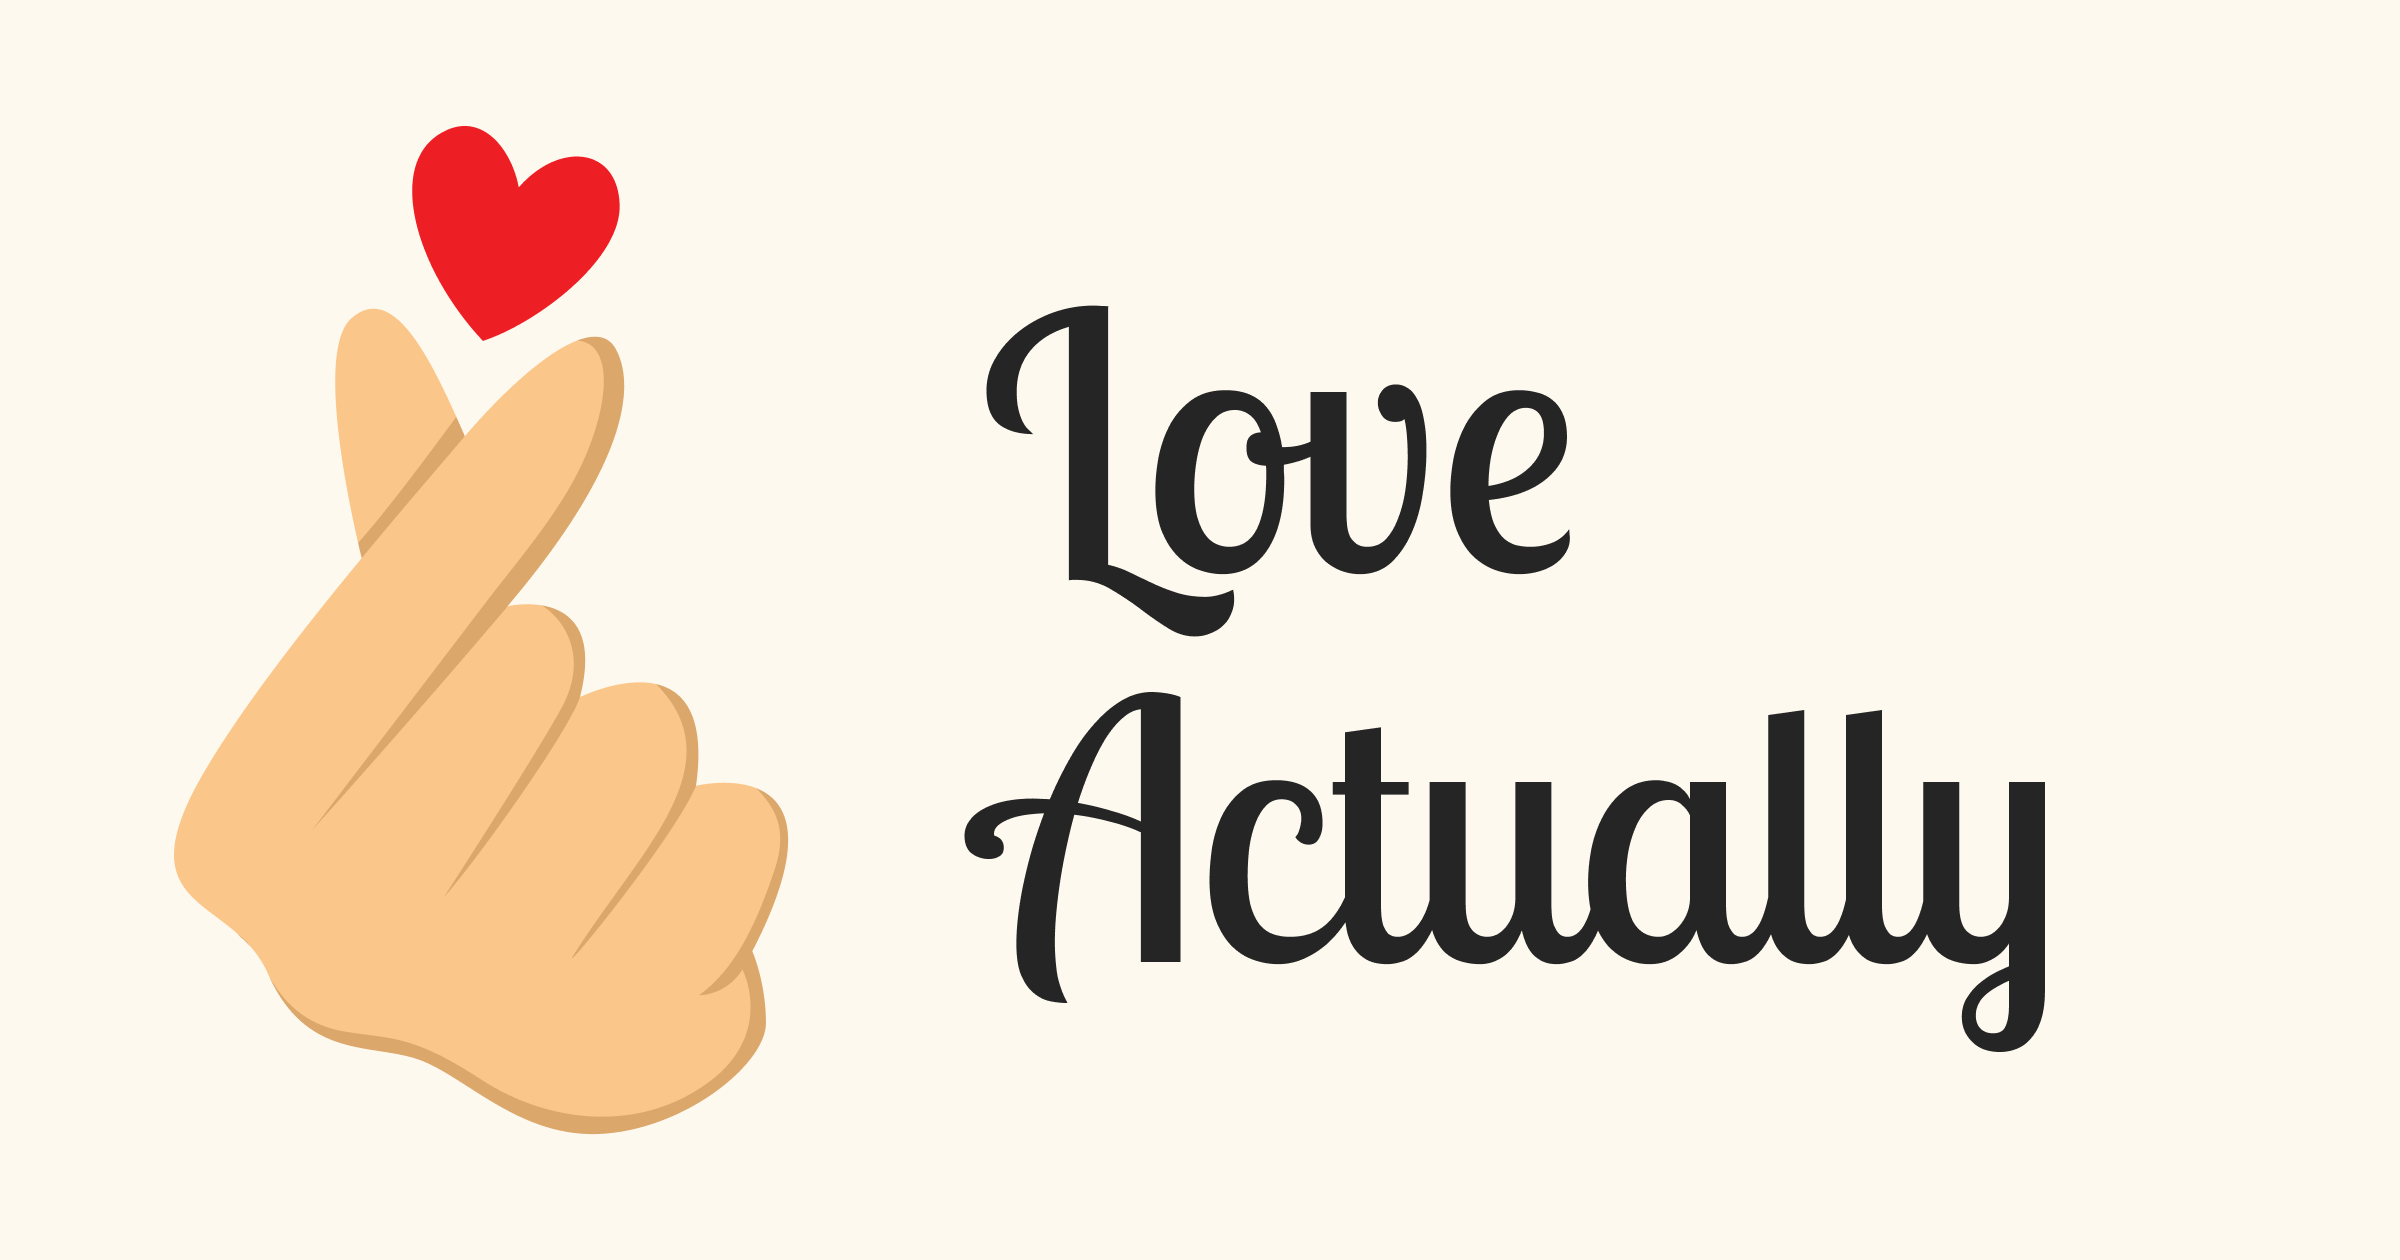
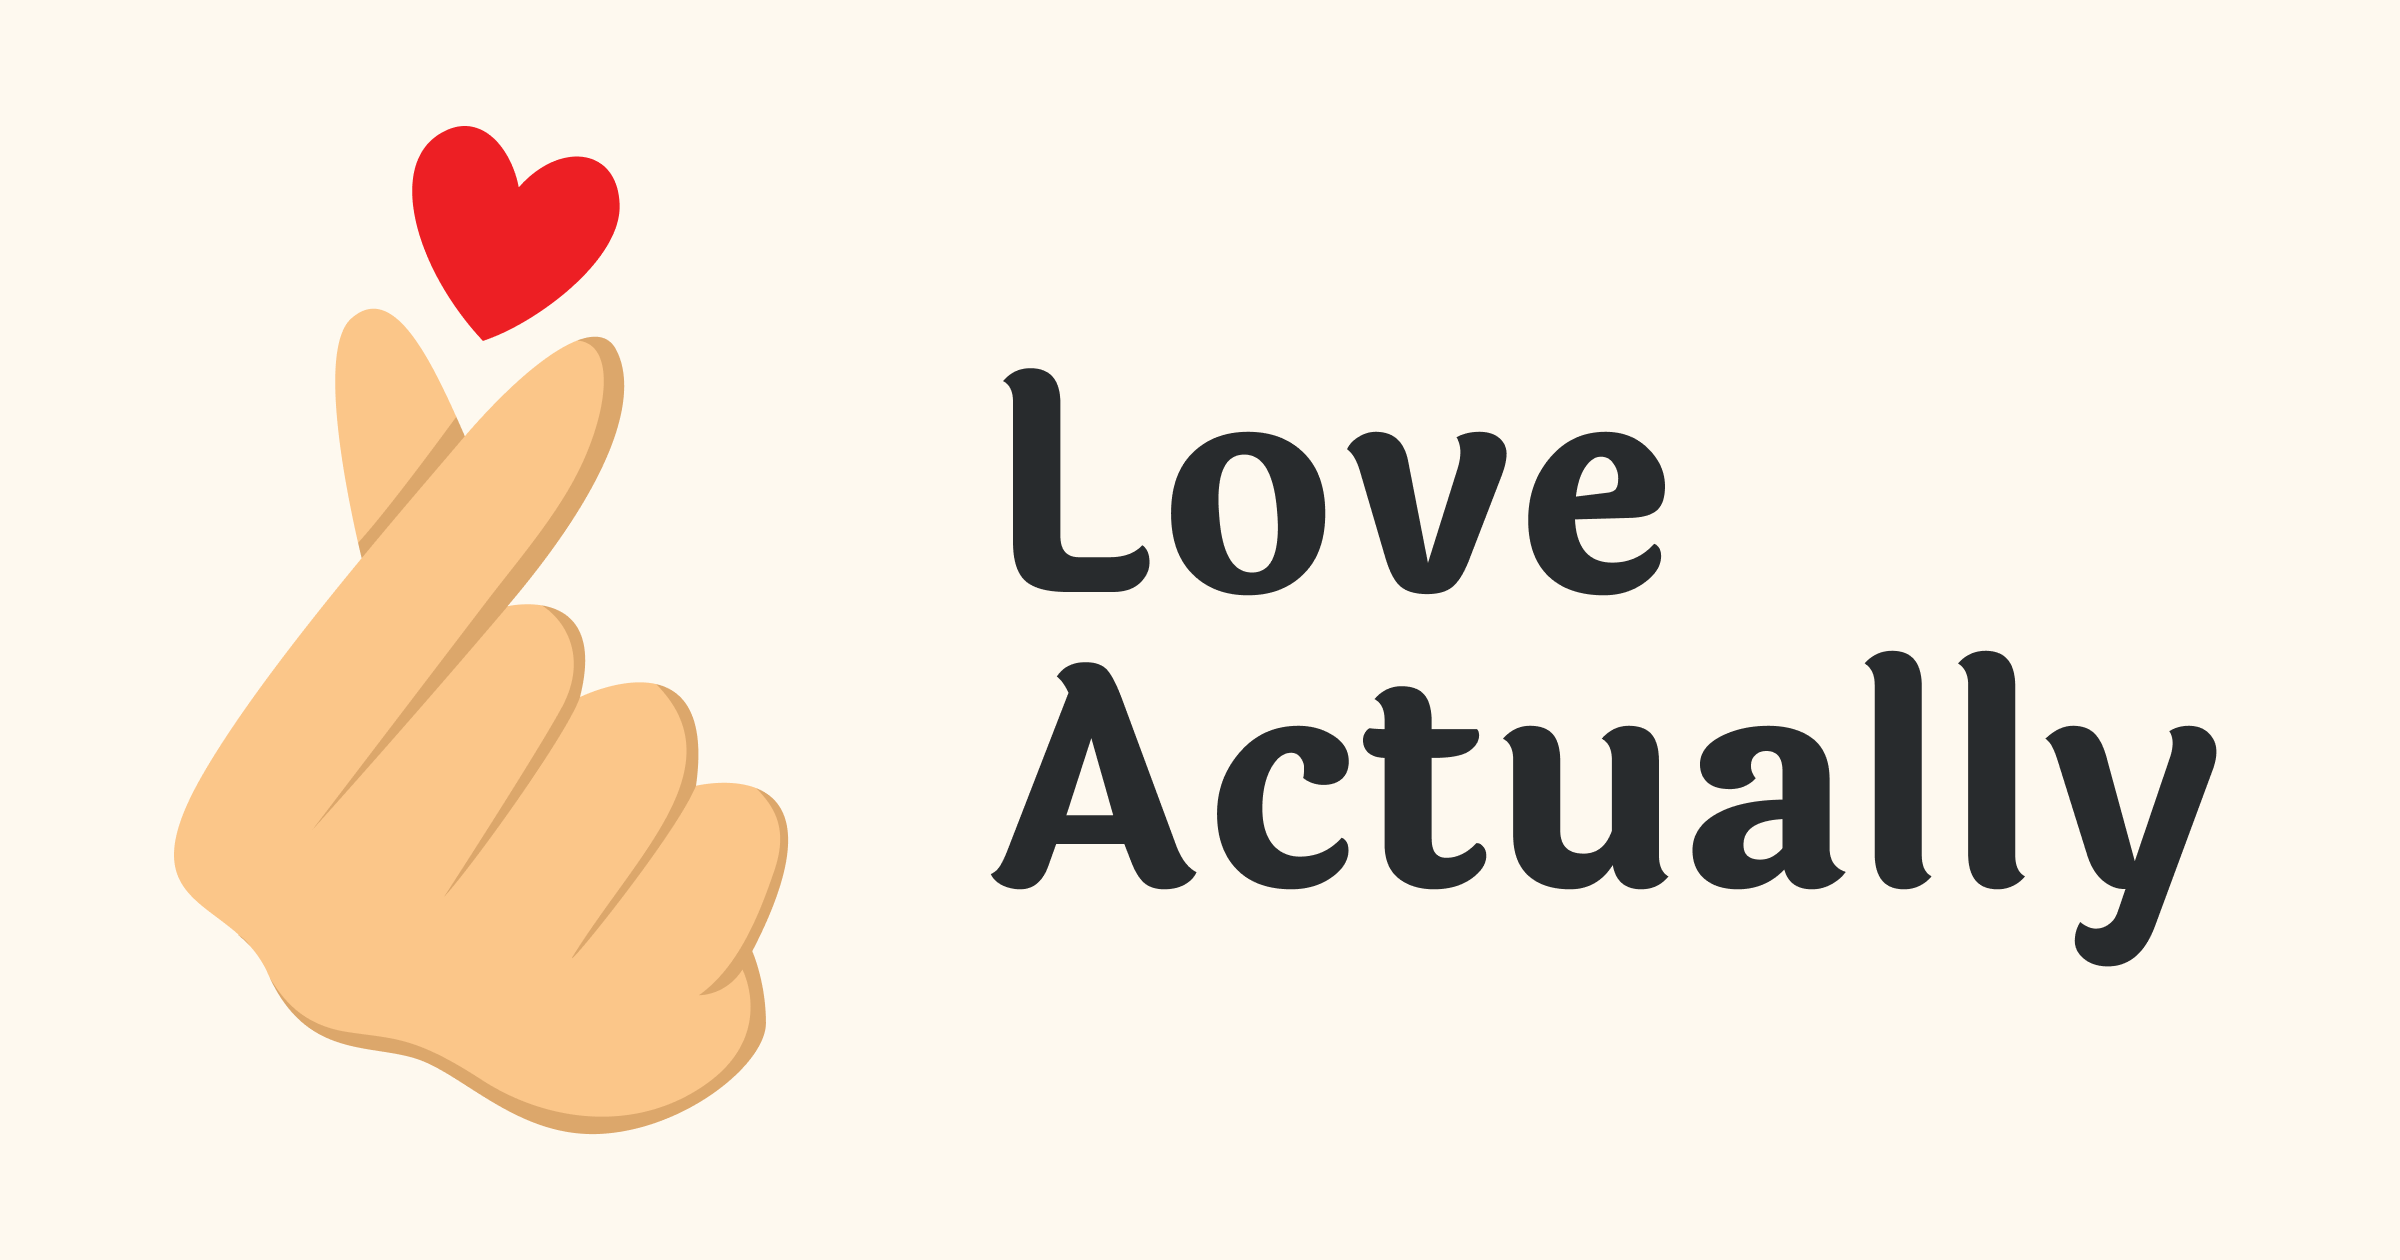
changing fonts

Changed region(s): [[0.375, 0.2476, 0.9375, 0.8357]]

diff --git a/pages/_app.tsx b/pages/_app.tsx
@@ -2,15 +2,15 @@
 import React from 'react'
 import '../styles/globals.css'
 import type { AppProps } from 'next/app'
-import { Lobster, Oswald } from 'next/font/google'
+import { Laila, Nunito } from 'next/font/google'
 
-const lobster = Lobster({
-  weight: '400',
+const laila = Laila({
+  weight: '700',
   subsets: ['latin']
 })
 
-const oswald = Oswald({
-  weight: '300',
+const nunito = Nunito({
+  weight: '400',
   subsets: ['latin']
 })
 
@@ -19,10 +19,10 @@ function MyApp ({ Component, pageProps }: AppProps) {
     <>
       <style jsx global>{`
         header h1 {
-          font-family: ${lobster.style.fontFamily};
+          font-family: ${laila.style.fontFamily};
         }
         main {
-          font-family: ${oswald.style.fontFamily};
+          font-family: ${nunito.style.fontFamily};
         }
       `}</style>
       <Component {...pageProps} />
